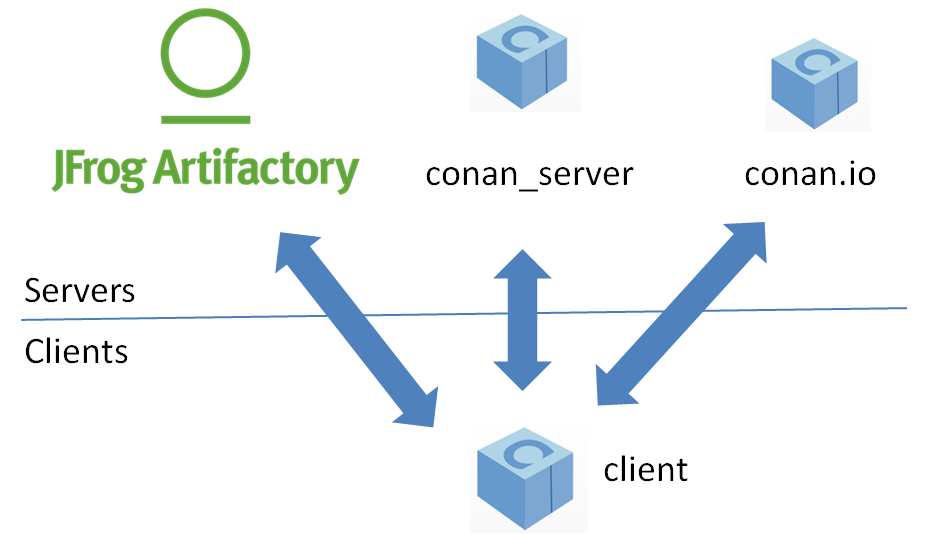
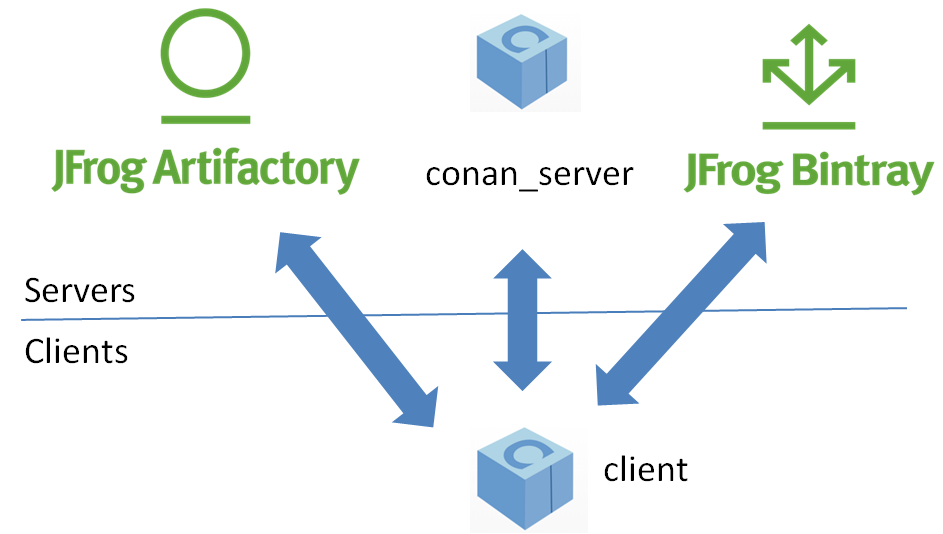
changes for 0.24

Changed region(s): [[0.7073, 0.03, 1.0, 0.3596]]

diff --git a/integrations/appveyor.rst b/integrations/appveyor.rst
@@ -1,3 +1,4 @@
+.. _appveyor_ci:
 
 |appveyor_logo| Appveyor 
 ========================
@@ -59,12 +60,29 @@ Create an ``appveyor.yml`` file and paste this code in it:
 Appveyor will install the **conan** tool and will execute the **conan install** command.
 Then, the **build_script** section creates the build folder, compiles the project with **cmake** and the section **test_script** runs the **tests**.
 
-Creating and testing conan package binaries
----------------------------------------------------------
+Creating, testing and uploading conan package binaries
+-------------------------------------------------------
 
 You can use Appveyor to automate the building of binary packages, which will be created in the
-cloud after pushing to Github. You can probably setup your own way, but it is recommended
-to use :ref:`conan tools for package creators <package_tools>`
+cloud after pushing to Github. You can probably setup your own way, but conan has some utilities to help in the process.
+
+The command ``conan new`` has arguments to create a default working ``appveyor.yml`` file. Other setups might be possible, but for this example we are assuming that you are using github and also uploading your final packages to Bintray. You could follow these steps:
+
+#. First, create an empty github repository, lets call it "hello", for creating a "hello world" package. Github allows to create it with a Readme and .gitignore.
+#. Get the credentials User and API Key (remember, Bintray uses the API key as "password", not your main Bintray account password)
+#. Create a conan repository in Bintray under your user or organization, and get its URL ("Set me up"). We will call it ``UPLOAD_URL``
+#. Activate the repo in your Appveyor account, so it is built when we push changes to it.
+#. Under *Appveyor Settings->Environment*, add the ``CONAN_PASSWORD`` environment variable with the Bintray API Key, and encrypt it.
+#. Clone the repo: ``$ git clone <your_repo/hello> && cd hello``
+#. Create the package: ``$ conan new Hello/0.1@<user>/testing -t -s -ciw -cis -ciu=UPLOAD_URL`` where ``user`` is your Bintray username
+#. You can inspect the created files: both ``appveyor.yml`` and the ``build.py`` script, that is used by ``conan-package-tools`` utility to split different builds 			 with different configurations in different appveyor jobs.
+#. You can test locally, before pushing, with ``$ conan test_package``
+#. Add the changes, commit and push: ``$ git add . && git commit -m "first commit" && git push``
+#. Go to Appveyor and see the build, with the different jobs.
+#. When it finish, go to your Bintray repository, you should see there the uploaded packages for different configurations
+#. Check locally, searching in Bintray: ``$ conan search Hello/0.1@<user>/testing -r=mybintray``
+
+If something fails, please report an issue in the ``conan-package-tools`` github repository: https://github.com/conan-io/conan-package-tools
 
 
 .. |appveyor_logo| image:: ../images/appveyor_logo.png

diff --git a/integrations/travisci.rst b/integrations/travisci.rst
@@ -1,4 +1,6 @@
 
+.. _travis_ci:
+
 |travisci_logo| Travis Ci
 =============================
 
@@ -55,11 +57,31 @@ Travis will install the **conan** tool and will execute the **conan install** co
 Then, the **script** section creates the build folder, compiles the project with **cmake** and runs the **tests**.
 
 
-Creating and testing conan package binaries
----------------------------------------------------------
+Creating, testing and uploading conan package binaries
+-------------------------------------------------------
+
 You can use Travis to automate the building of binary packages, which will be created in the
-cloud after pushing to Github. You can probably setup your own way, but it is recommended
-to use :ref:`conan tools for package creators <package_tools>`
+cloud after pushing to Github. You can probably setup your own way, but conan has some utilities to help in the process.
+
+The command ``conan new`` has arguments to create a default working ``.travis.yml`` file. 
+Other setups might be possible, but for this example we are assuming that you are using github and also uploading your final packages to Bintray. 
+You could follow these steps:
+
+#. First, create an empty github repository, lets call it "hello", for creating a "hello world" package. Github allows to create it with a Readme and .gitignore.
+#. Get the credentials User and API Key (remember, Bintray uses the API key as "password", not your main Bintray account password)
+#. Create a conan repository in Bintray under your user or organization, and get its URL ("Set me up"). We will call it ``UPLOAD_URL``
+#. Activate the repo in your Travis account, so it is built when we push changes to it.
+#. Under *Travis More Options -> Settings->Environment Variables*, add the ``CONAN_PASSWORD`` environment variable with the Bintray API Key.
+#. Clone the repo: ``$ git clone <your_repo/hello> && cd hello``
+#. Create the package: ``$ conan new Hello/0.1@<user>/testing -t -s -cilg -cis -ciu=UPLOAD_URL`` where ``user`` is your Bintray username
+#. You can inspect the created files: both ``.travis.yml``, ``.travis/run.sh``, and ``.travis/install.sh`` and the ``build.py`` script, that is used by ``conan-package-tools`` utility to split different builds with different configurations in different travis jobs.
+#. You can test locally, before pushing, with ``$ conan test_package``
+#. Add the changes, commit and push: ``$ git add . && git commit -m "first commit" && git push``
+#. Go to Travis and see the build, with the different jobs.
+#. When it finish, go to your Bintray repository, you should see there the uploaded packages for different configurations
+#. Check locally, searching in Bintray: ``$ conan search Hello/0.1@<user>/testing -r=mybintray``
+
+If something fails, please report an issue in the ``conan-package-tools`` github repository: https://github.com/conan-io/conan-package-tools
 
 
 .. |travisci_logo| image:: ../images/travisci_logo.jpeg

diff --git a/introduction.rst b/introduction.rst
@@ -24,7 +24,8 @@ The different applications in the picture are:
 - The **conan client**: this is a console/terminal command line application, containing the heavy logic for package creation and consumption. Conan client has a local cache for package storage, and so it allows you to fully create and test packages offline.  You can also **work offline** so long as no new packages are needed from remote servers. 
 - The **conan_server**: this is a TCP server that can be easily run as your **own server on-premises** to host your private packages. It is also a service application that can be run as a daemon or service, behind a web server (apache, nginx), or easily as stand-alone application.  Both the conan client and the conan_server are OSS, MIT license, so you can use them for free in your company, customize them, or redistribute them without any legal issue.
 - JFrog `Artifactory <https://www.jfrog.com/artifactory/>`_ offers conan repositories; so it can also be used as an on-premises server. It is a more powerful solution, featuring a WebUI, multiple auth protocols, High Availability, ..., etc. It also has cloud offerings that will allow you to have private packages without having any on-premises infrastructure.
-- **Conan.io**: Is a public and free hosting service for conan packages. It is not moderated, so anyone could create and upload their own packages.  You should, however, take into account that those packages will be public, and so they must conform to the respective licenses, especially if the packages contain third party code. Reading packages from this server doesn’t require an account. That is only required for uploading packages.
+- JFrog `Bintray <https://bintray.com/>`_ provides a public and free hosting service for OSS conan packages. Users can create their own repositories under their accounts and organizations, and freely upload conan packages there, without moderation. You should, however, take into account that those packages will be public, and so they must conform to the respective licenses, especially if the packages contain third party code. Just reading or retrieving conan packages from Bintray, doesn't require an account, an account is only needed to upload packages. Besides that, Bintray provides a central repository called `conan-center <https://bintray.com/conan/conan-center>`_ which is moderated, and packages are reviewed before being accepted to ensure quality. This repository is currently empty, the process has just started. In the meantime, the repository `conan-transit <https://bintray.com/conan/conan-transit>`_ contains a copy of all the packages that were in the conan.io repository, and were copied. Those were non-moderated packages, so quality and cross-platform support of packages might vary.
+
 
 
 Binary management

diff --git a/packaging/upload.rst b/packaging/upload.rst
@@ -92,6 +92,68 @@ downloaded from your local server. You can check their existence on your local c
    $ conan search
 
 
+Uploading OSS packages to Bintray
+------------------------------------
+
+Bintray offers free conan repositories for OSS packages. If you want to share and distribute your OSS packages in Bintray, please follow these steps:
+
+#. **Create a Bintray Open Source account**
+
+   Browse to https://bintray.com/signup/oss and submit the form to create your account. Note that you don’t have to use
+   the same username that you had in your Conan account.
+
+
+#. **Create a Conan repository**
+
+   If you intend to collaborate with other users, you first need to create a Bintray organization, and create your
+   repository under the organization’s profile rather than under your own user profile.
+
+   On your user profile (or organization profile) click “Add new repository”.
+   Fill in the Create Repository form making sure to select Conan as the Type.
+
+
+#. **Get your API key**
+
+   Your API key is the “password” used to authenticate the Conan client to Bintray, NOT your Bintray password.
+   To create an API key, you need to edit your user profile.
+
+
+#. **Add your Bintray repository** 
+
+   Add a Conan remote in your Conan client pointing to your Bintray repository
+
+    .. code-block:: bash
+
+      $ conan remote add <REMOTE> <YOUR_BINTRAY_REPO_URL>
+
+   Use the Set Me Up button on your repository’s page on Bintray to get its URL
+
+#. **Upload**
+
+    .. code-block:: bash
+
+      $ conan upload Hello/0.1@demo/testing --all -r=REMOTE
+
+
+Using travis-ci and appveyor to create and upload OSS packages to Bintray
+++++++++++++++++++++++++++++++++++++++++++++++++++++++++++++++++++++++++++++
+
+You can fully automate the creation, testing and upload of your conan packages using free services like Travis-CI and Appveyor (free for OSS). 
+
+The command ``conan new`` has arguments to generate files for both systems:
+
+.. code-block:: bash
+
+    $ conan new Hello/0.1@demo/testing -t -s -cilg -cio -ciw -cis -ciu=YOUR_BINTRAY_REPO_URL
+
+
+The respective integration doc pages have detailed information how to use both systems. Please read and follow them:
+
+- :ref:`travis_ci`
+- :ref:`appveyor_ci`
+
+
+
 
 .. |write_us| raw:: html
 

diff --git a/changelog.rst b/changelog.rst
@@ -6,6 +6,29 @@ Changelog
 
 Check https://github.com/conan-io/conan for issues and more details about development, contributors, etc.
 
+
+0.24.0 (15-June-2017)
+----------------------
+- Feature: ``conan new`` new arguments to generate **Travis-CI** and **Appveyor** files for Continuous Integration
+- Feature: Added ``RelWithDebInfo/MinRelSize`` to cmake generators
+- Feature: Improved linter, removing false positives due to dynamic conanfile attributes
+- Feature: Added ``tools.ftp_download()`` function for FTP retrieval
+- Feature: Managing symlinks between folders.
+- Feature: ``conan remote add`` command learned new ``--insert`` option to add remotes in specific order.
+- Feature: support multi-config in the ``SCons`` generator
+- Feature: support for gcc 7.1+ detection
+- Feature: ``tools`` now are using global ``requests`` and ``output`` instances. Proxies will work for ``tools.download()``
+- Fix: update default repos, now pointing to Bintray.
+- Fix: printing ``outdated from recipe`` also for remotes
+- Fix: Fix required slash in ``configure_dir`` of ``AutoToolsBuildEnvironment``
+- Fix: command ``new`` with very short names, now errors earlier.
+- Fix: better error detection for incorrect ``Conanfile.py`` letter case.
+- Fix: Improved some cmake robustness using quotes to avoid cmake errors
+- BugFix: Fixed incorrect firing of building due to ``--build`` patterns error
+- BugFix: Fixed bug with options incorrectly applied to ``build_requires`` and crashing
+- Refactor: internal refactors toward having a python api to conan functionality
+
+
 0.23.1 (05-June-2017)
 ----------------------
 - BugFix: Fixed bug while packaging symlinked folders in build folder, and target not being packaged.

diff --git a/reference/commands/new.rst b/reference/commands/new.rst
@@ -30,6 +30,14 @@ package testing files.
      -b, --bare     Create the minimum package recipe, without build() or
                     package()methods. Useful in combination with "package_files"
                     command
+     -cis, --ci_shared        Package will have a "shared" option to be used in CI
+     -cilg, --ci_travis_gcc   Generate travis-ci files for linux gcc
+     -cilc, --ci_travis_clang Generate travis-ci files for linux clang
+     -cio, --ci_travis_osx    Generate travis-ci files for OSX apple-clang
+     -ciw, --ci_appveyor_win  Generate appveyor files for Appveyor Visual Studio
+     -gi, --gitignore         Generate a .gitignore with the known patterns to
+                              excluded
+     -ciu CI_UPLOAD_URL, --ci_upload_url CI_UPLOAD_URL Define URL of the repository to upload
 
 **Examples**:
 
@@ -46,4 +54,11 @@ package testing files.
 .. code-block:: bash
 
    $ conan new mypackage/1.0@myuser/stable -t
+
+
+- Create files for travis (both Linux and OSX) and appveyor Continuous Integration:
+
+.. code-block:: bash
+
+   $ conan new mypackage/1.0@myuser/stable -t -cilg -cio -ciw
 

diff --git a/reference/tools.rst b/reference/tools.rst
@@ -163,8 +163,29 @@ with ``retry_wait``.
     tools.download("http://someurl/somefile.zip", "myfilename.zip", verify=False)
     # to retry the download 2 times waiting 5 seconds between them
     tools.download("http://someurl/somefile.zip", "myfilename.zip", retry=2, retry_wait=5)
-    
-    
+
+
+
+tools.ftp_download()
+------------------------
+
+Retrieves a file from an FTP server. Right now it doesn't support SSL, but you might implement it yourself using the standard python FTP library, and also if you need some special functionality.
+
+``def ftp_download(ip, filename, login='', password='')``
+
+- ip: The IP or address of the ftp server
+- filename: The filename, including the path/folder where it is located
+- login/password: optional credentials to the ftp server
+
+Example: 
+
+.. code-block:: python
+
+    def source(self):
+        tools.ftp_download('ftp.debian.org', "debian/README")
+        self.output.info(load("README"))
+
+
 tools.replace_in_file()
 -----------------------
 

diff --git a/reference/commands/remote.rst b/reference/commands/remote.rst
@@ -47,9 +47,21 @@ Handles the remote list and the package recipes associated to a remote.
 
    $ conan remote add remote_name remote_url [verify_ssl]
 
-
 Verify SSL option can be True or False (default True). Conan client will verify the SSL certificates.
 
+- Insert a new remote:
+
+Insert as the first one (position/index 0), so it is the first one to be checked:
+
+.. code-block:: bash
+
+   $ conan remote add remote_name remote_url [verify_ssl] --insert
+
+Insert as the second one (position/index 1), so it is the second one to be checked:
+
+.. code-block:: bash
+
+   $ conan remote add remote_name remote_url [verify_ssl] --insert=1
 
 - Remove a remote:
 

diff --git a/move_to_bintray.rst b/move_to_bintray.rst
@@ -79,7 +79,7 @@ Conan packages can be uploaded to bintray under your own users or organizations.
    To create an API key, you need to edit your user profile.
 
 
-4. **Add your Bintray repository** (Optional, only if you want to host your packages in Bintray)
+4. **Add your Bintray repository**
 
    Add a Conan remote in your Conan client pointing to your Bintray repository
 
